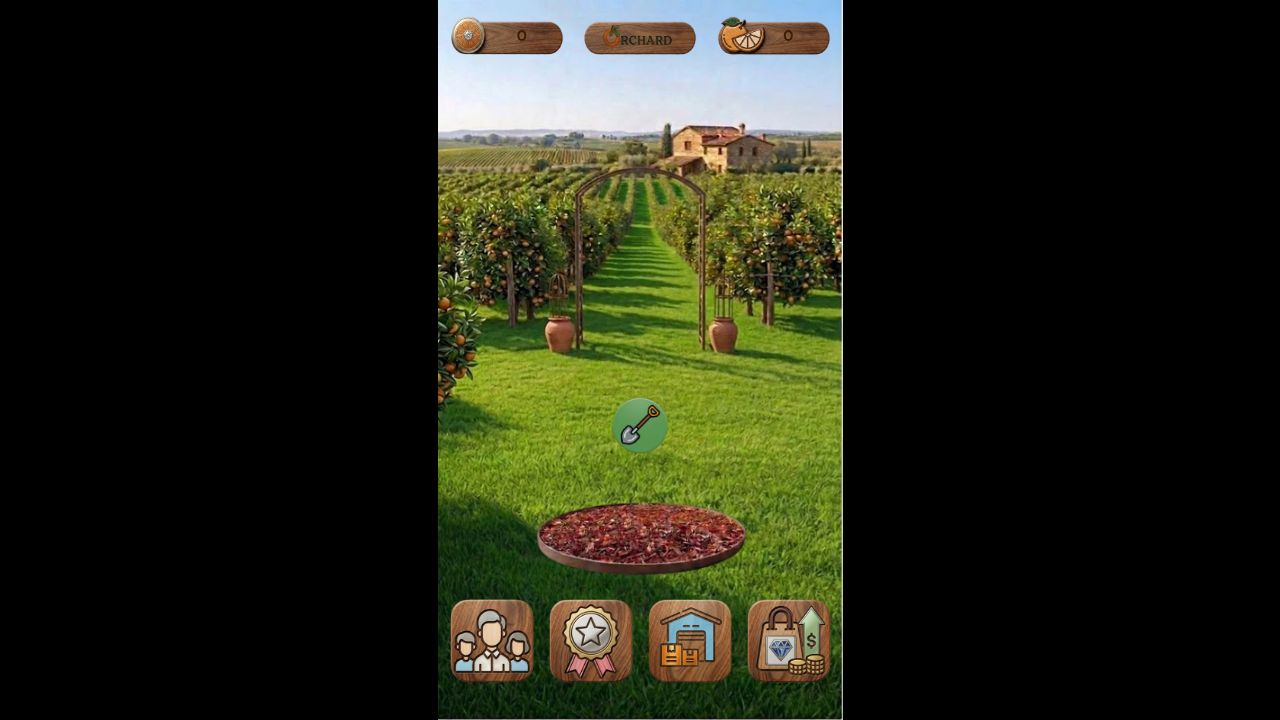
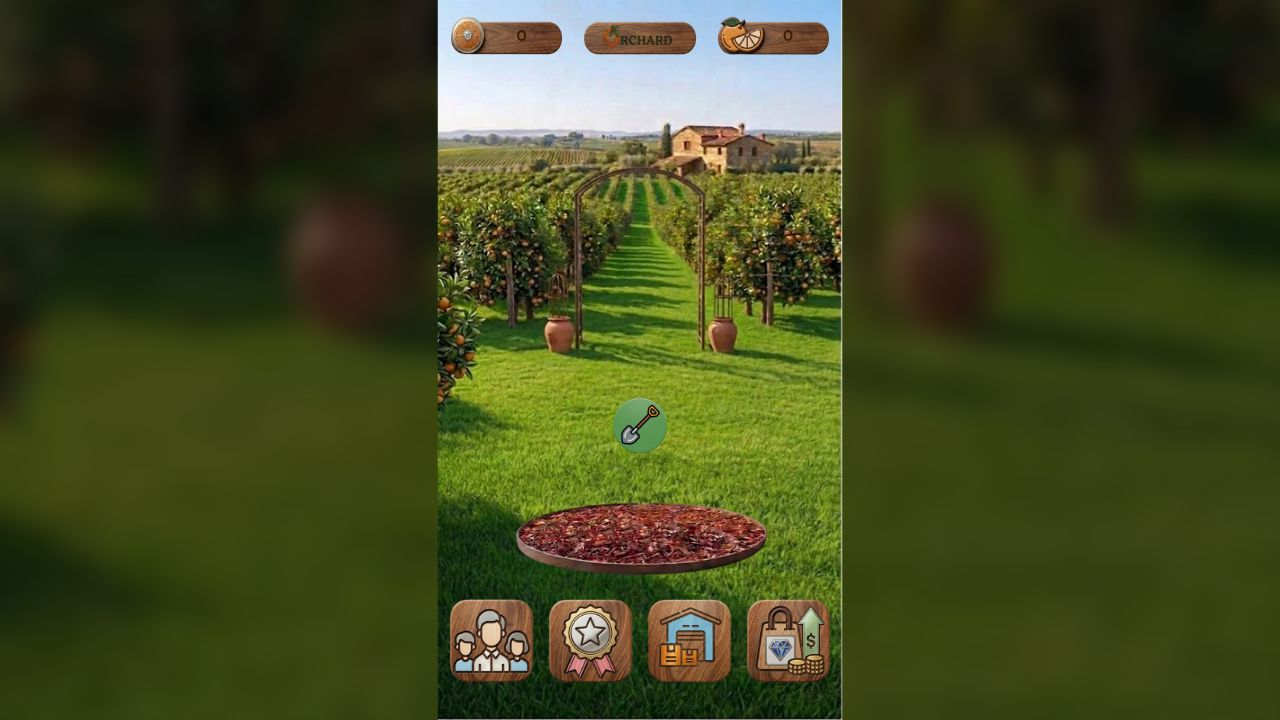
Make port and base path optional for build configuration
Update vite.config.ts to provide fallback values for PORT and BASE_PATH during production builds, resolving build errors.

Replit-Commit-Author: Agent
Replit-Commit-Session-Id: c6dea013-b44e-43b4-b266-232d84729912
Replit-Commit-Checkpoint-Type: full_checkpoint
Replit-Commit-Event-Id: f2b9b0b3-da1f-405b-8b17-0008f69ae2ef
Replit-Commit-Screenshot-Url: https://storage.googleapis.com/screenshot-production-us-central1/dad3ba1b-3d5d-484b-ac56-a86bf22a6c8b/c6dea013-b44e-43b4-b266-232d84729912/rtQwKvZ
Replit-Helium-Checkpoint-Created: true

diff --git a/artifacts/orchard/vite.config.ts b/artifacts/orchard/vite.config.ts
@@ -4,26 +4,20 @@ import tailwindcss from "@tailwindcss/vite";
 import path from "path";
 import runtimeErrorOverlay from "@replit/vite-plugin-runtime-error-modal";
 
-const rawPort = process.env.PORT;
+const isBuild = process.env.NODE_ENV === "production" || process.argv.includes("build");
 
+const rawPort = process.env.PORT ?? (isBuild ? "5173" : undefined);
 if (!rawPort) {
-  throw new Error(
-    "PORT environment variable is required but was not provided.",
-  );
+  throw new Error("PORT environment variable is required but was not provided.");
 }
-
 const port = Number(rawPort);
-
 if (Number.isNaN(port) || port <= 0) {
   throw new Error(`Invalid PORT value: "${rawPort}"`);
 }
 
-const basePath = process.env.BASE_PATH;
-
+const basePath = process.env.BASE_PATH ?? (isBuild ? "/" : undefined);
 if (!basePath) {
-  throw new Error(
-    "BASE_PATH environment variable is required but was not provided.",
-  );
+  throw new Error("BASE_PATH environment variable is required but was not provided.");
 }
 
 export default defineConfig({